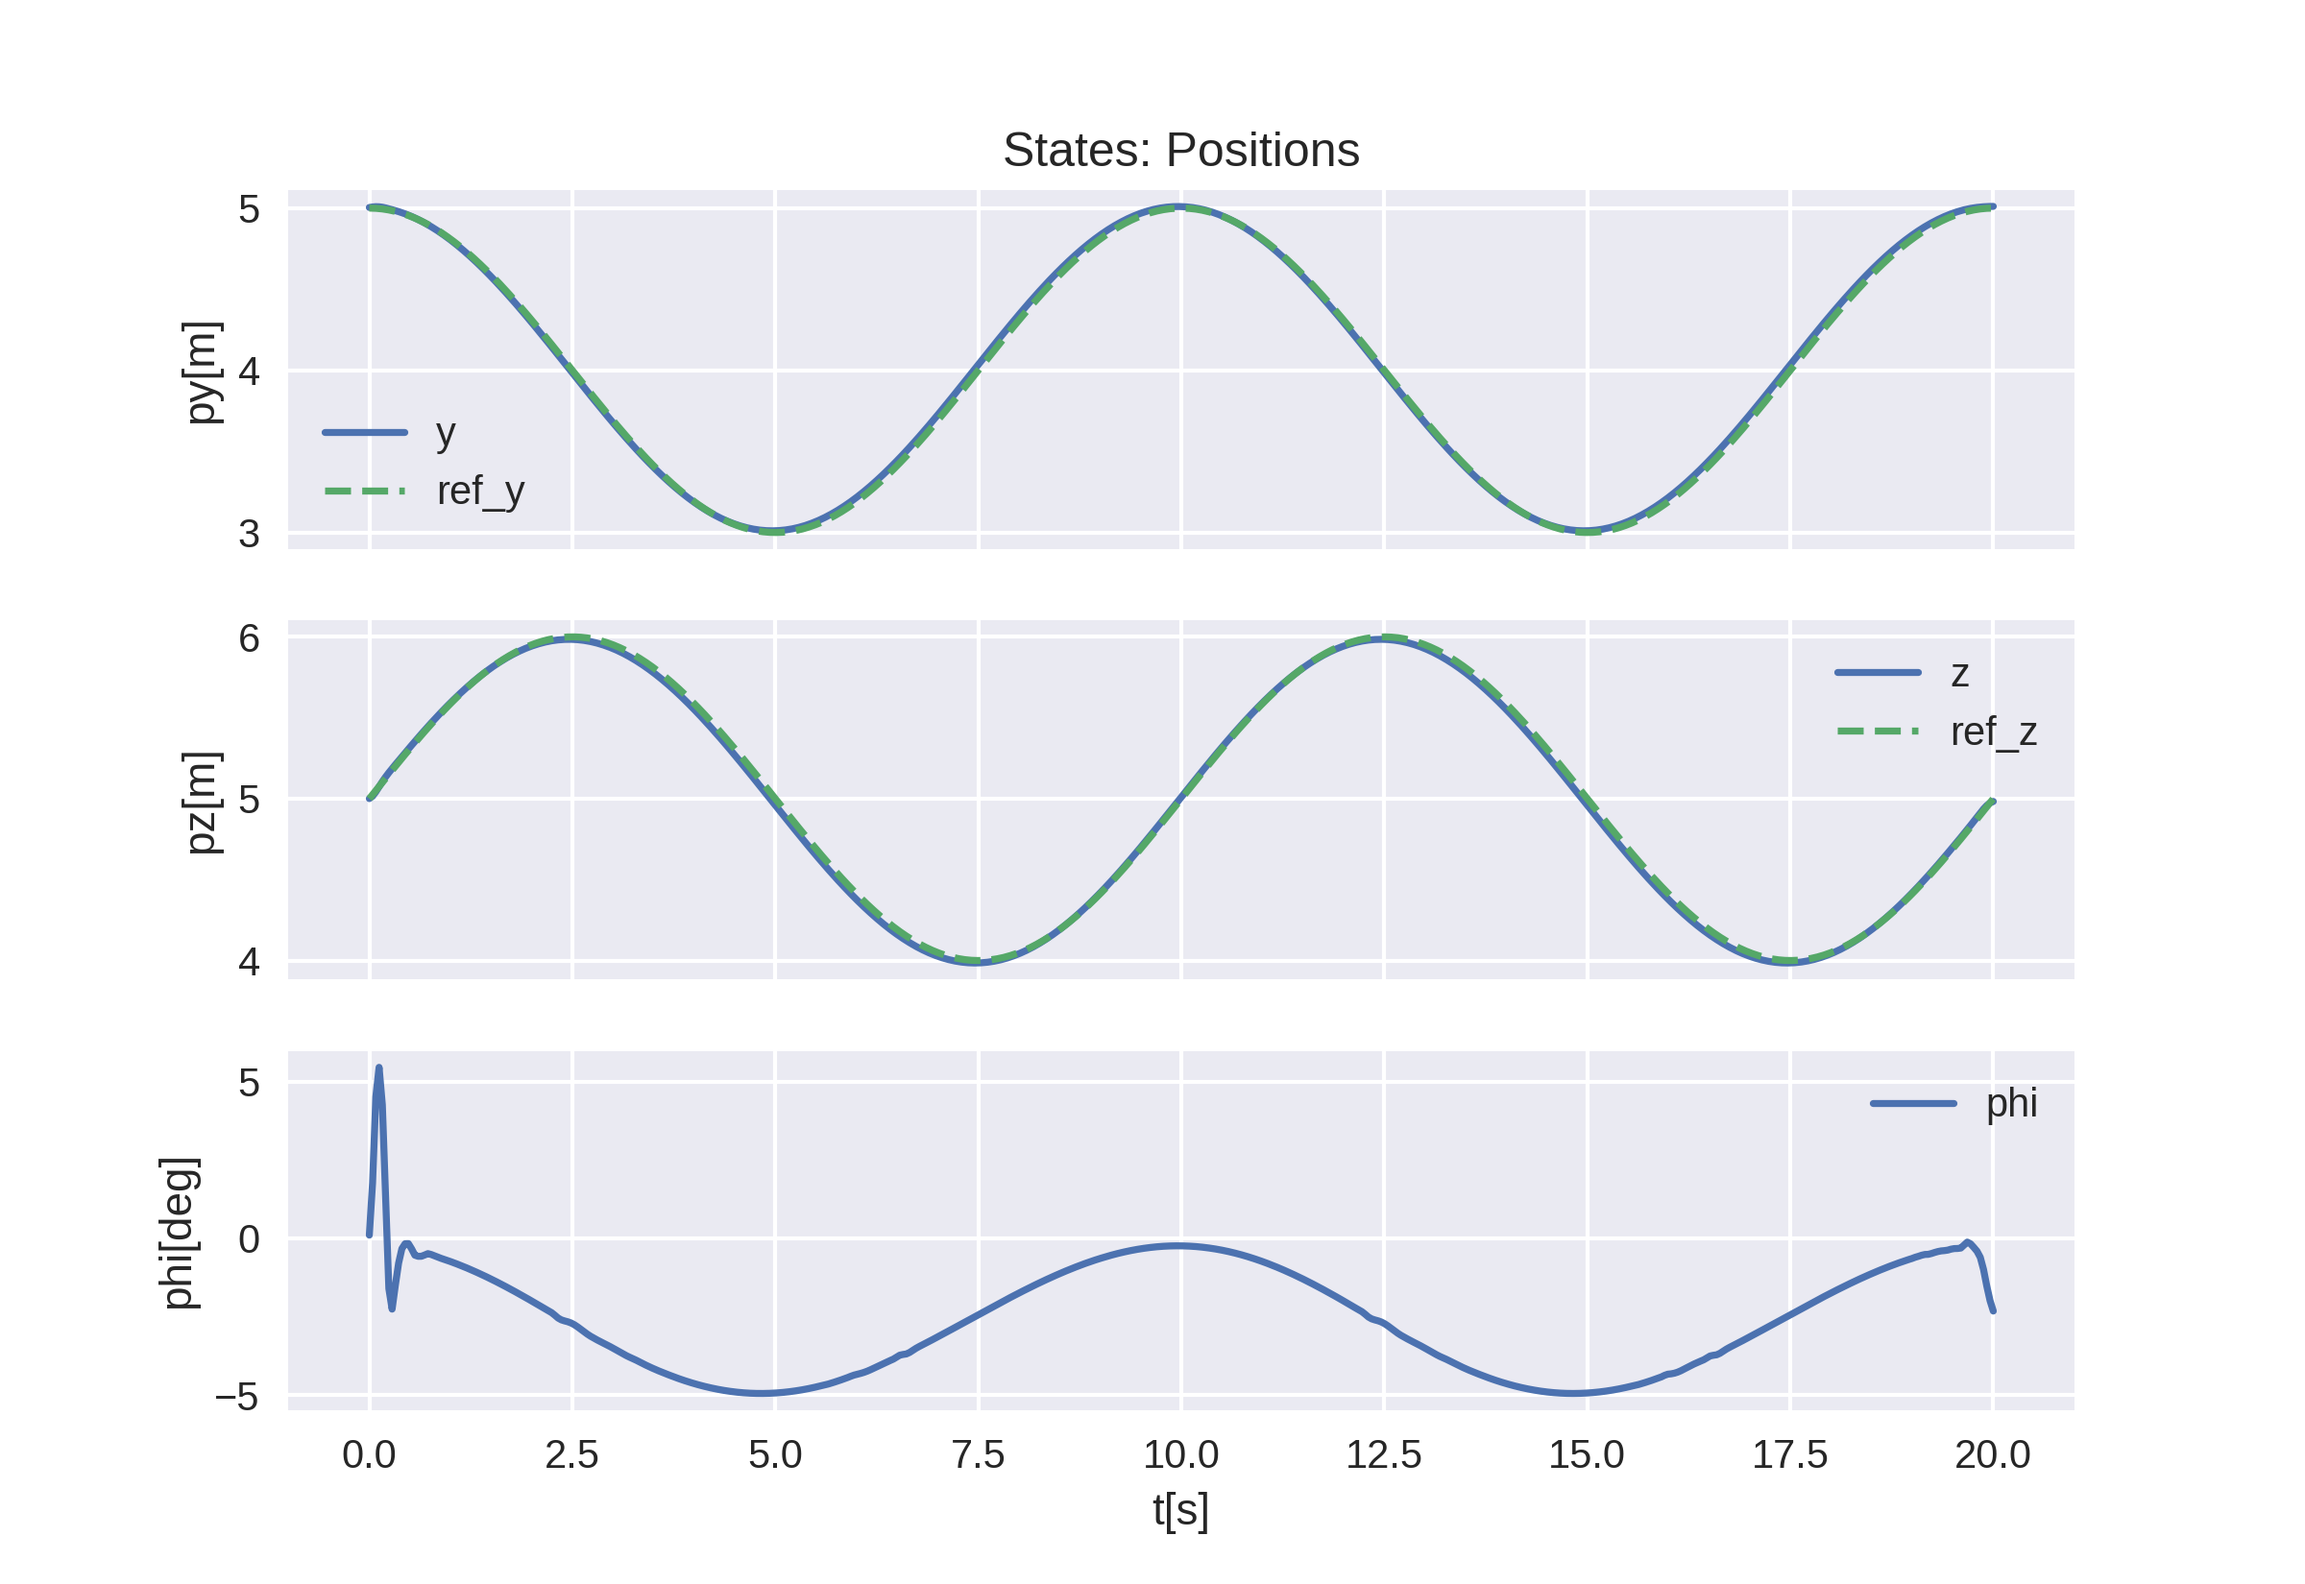
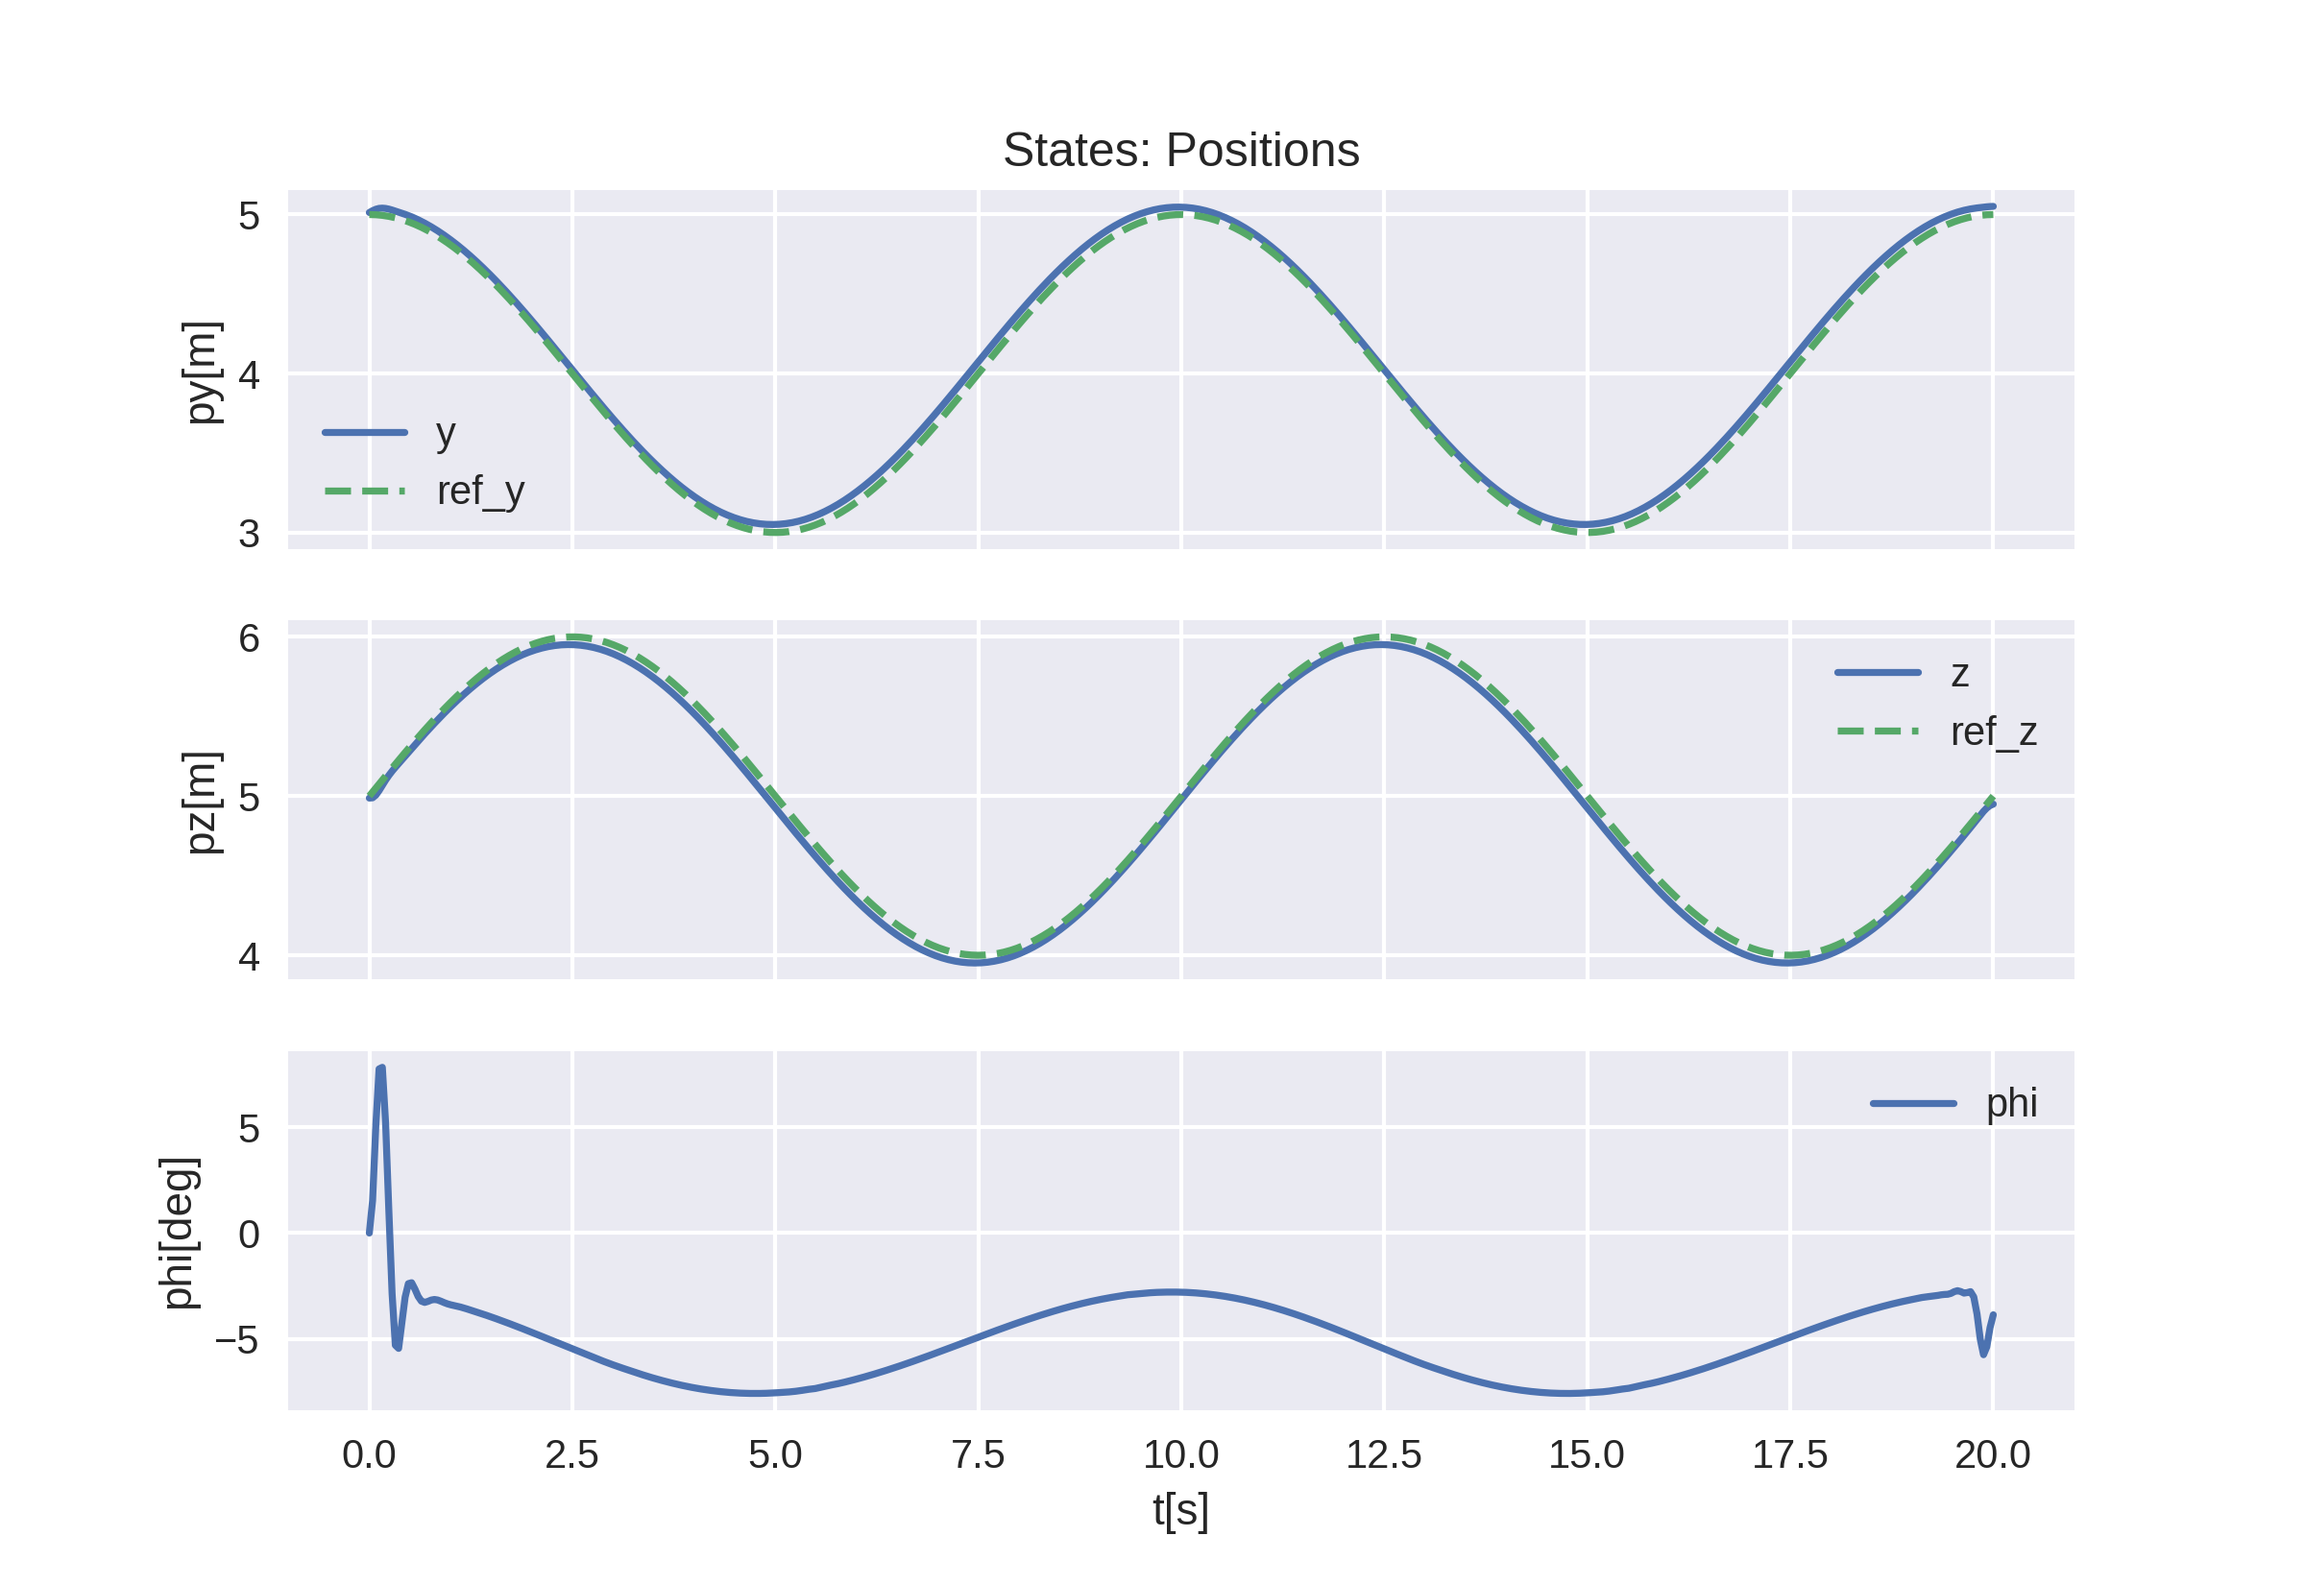
reverted back from adding velocities to trajectories

diff --git a/planar_mpc/trajectory.py b/planar_mpc/trajectory.py
@@ -64,13 +64,15 @@ def trajectory_generator2D(T_final, N, traj=0, show_traj=False):
     Generates a circular trajectory given a final time and a sampling time 
     '''
     r = 1 # radius
-    th = np.linspace(0,4*np.pi,N)
+    phi = np.linspace(0,4*np.pi,N)
     c_x, c_y = [4,5] # center coordinates 
     ## circular trajectory
     if traj ==0: 
-        t = np.linspace(0,T_final,N)
-        y = r * np.cos(th) + c_x
-        z = r * np.sin(th) + c_y
+        t  = np.linspace(0,T_final,N)
+        y  = r * np.cos(phi) + c_x
+        z  = r * np.sin(phi) + c_y
+        
+
         
         if show_traj == True:
             

diff --git a/planar_mpc/utils.py b/planar_mpc/utils.py
@@ -54,12 +54,12 @@ def add_measurement_noise(xcurrent):
     mean = 0
 
     # std of each state for a noiseless simulation
-    std_y      = 0.01
-    std_z      = 0.01
-    std_phi    = 0.01
-    std_vy     = 0.01
-    std_vz     = 0.01
-    std_phidot = 0.01
+    std_y      = 0.03
+    std_z      = 0.03
+    std_phi    = 0.005
+    std_vy     = 0.02
+    std_vz     = 0.02
+    std_phidot = 0.02
     
     # create the noisy states
     y_noisy      = y + np.random.normal(mean, std_y)

diff --git a/planar_mpc/main.py b/planar_mpc/main.py
@@ -44,9 +44,13 @@ t, y, z = trajectory_generator2D(T, Nsim, traj, show_ref_traj)
 
 y_end = y[-1] * np.ones_like(np.ndarray((N, 1)))
 z_end = z[-1] * np.ones_like(np.ndarray((N, 1)))
+# vy_end = vy[-1] * np.ones_like(np.ndarray((N, 1)))
+# vz_end = vz[-1] * np.ones_like(np.ndarray((N, 1)))
 
 y = np.append(y,y_end)
 z = np.append(z,z_end)
+# vy = np.append(vy,vy_end)
+# vz = np.append(vz,vz_end)
 
 ref_traj = np.stack((y, z), 1)
 
